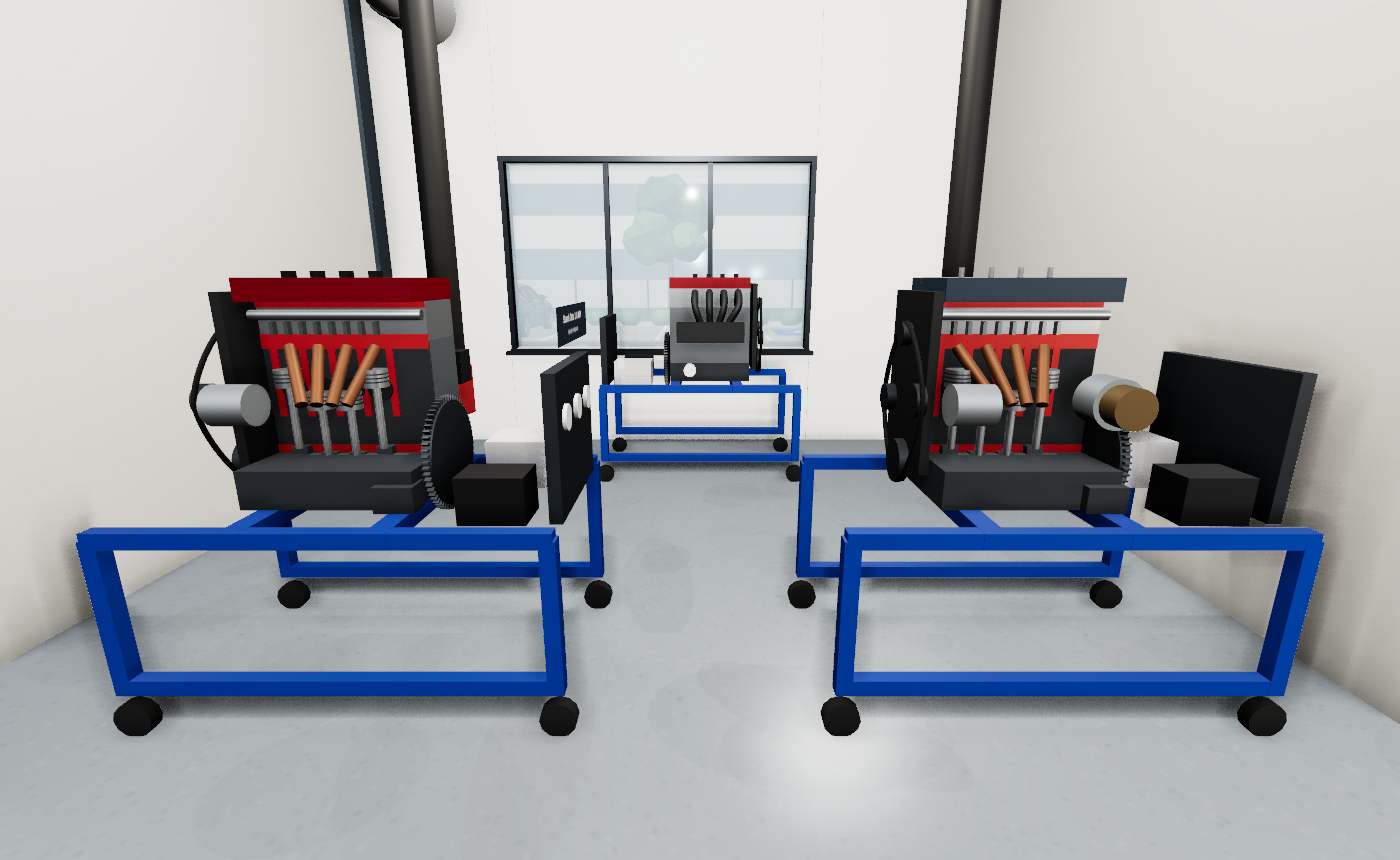
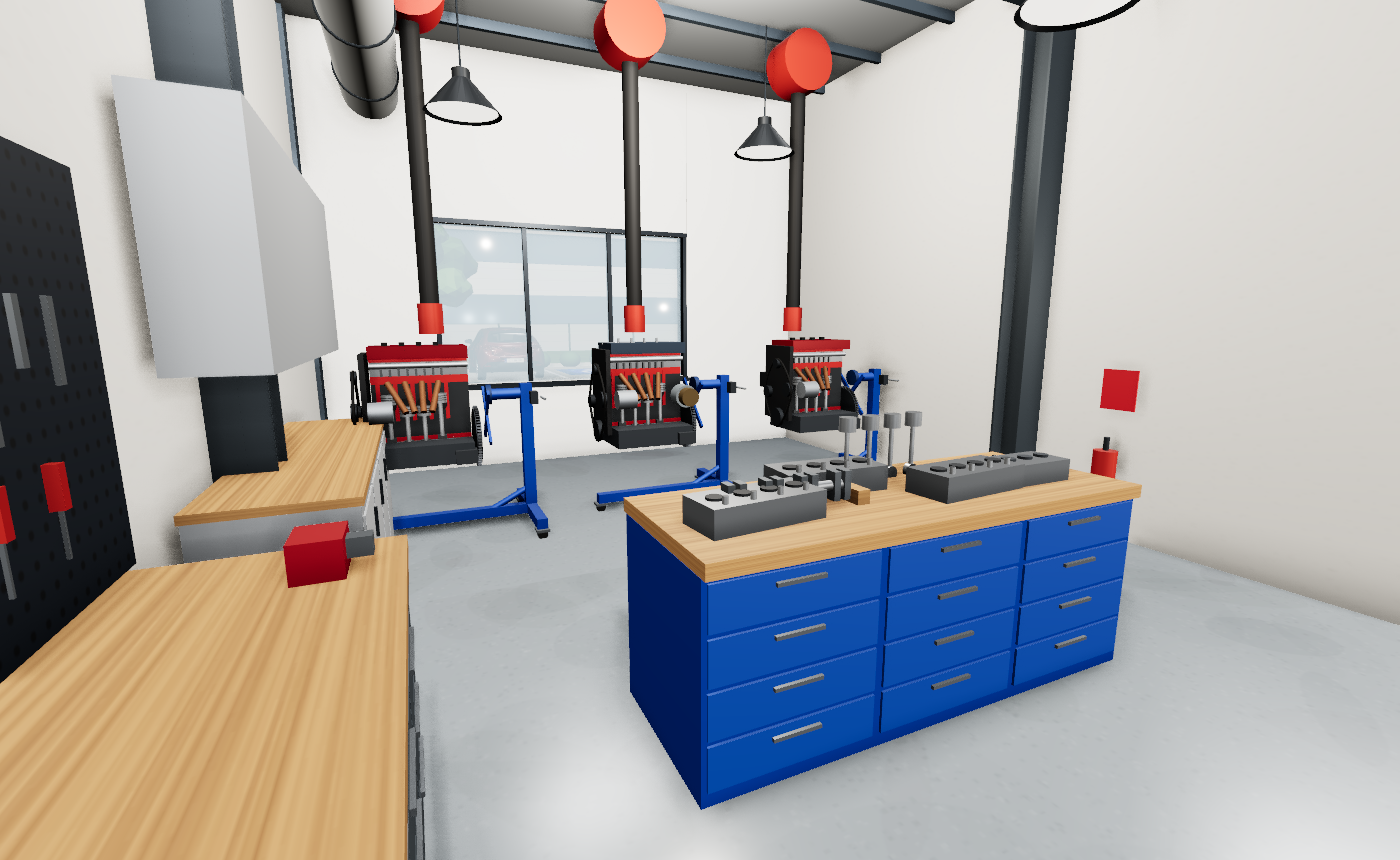
Laborator motoare amenajat după imaginea concept PCMAI + CCMAI
- trei motoare secționate pe standuri rotative albastre (Otto 1.4 MPI, Diesel 1.5 dCi, motor demonstrativ CCMAI)
- banc central cu chiulase și ax cu came, banc cu arbore cotit și pistoane, dulapuri gri de laborator
- lămpi industriale suspendate tip clopot, stâlpi metalici, evacuare gaze deasupra fiecărui motor

Claude-Session: https://claude.ai/code/session_01TZFbCrNL5Qe3p3aSQB4Bo5

diff --git a/js/equipment.js b/js/equipment.js
@@ -590,6 +590,25 @@ function engineModel(kind = 'MPI', cyl = 4) {
   return g;
 }
 // banc cu piese de motor (ca în imaginea concept PCMAI + CCMAI): arbore cotit, pistoane cu biele, chiulasă, ax cu came
+// stand rotativ de motor (ca în imaginea concept): bază pe roți, coloană, cap rotativ cu placă în cruce, motorul în consolă la ~1 m
+function engineRotStand(kind = 'MPI', cut = true) {
+  const g = new THREE.Group(); const SF = C(0x1f4fa8, { metalness: 0.35, roughness: 0.4 });
+  B(g, 0.08, 0.08, 1.0, SF, 0.55, 0.08, 0); B(g, 1.25, 0.08, 0.08, SF, -0.05, 0.08, 0);                 // bază în T
+  for (const [x, z] of [[0.55, -0.48], [0.55, 0.48], [-0.65, 0]]) { B(g, 0.1, 0.02, 0.1, MAT.steel, x, 0.06, z); Cy(g, 0.04, 0.035, MAT.rubber, x, 0.035, z, 'z', 14); }
+  B(g, 0.09, 1.0, 0.09, SF, 0.55, 0.16, 0); tube(g, [0.55, 0.3, 0], [0.2, 0.12, 0], 0.025, SF);          // coloană + contrafișă
+  Cy(g, 0.045, 0.32, SF, 0.42, 1.08, 0, 'x', 16); Cy(g, 0.08, 0.04, C(0x0e2f5a), 0.26, 1.08, 0, 'x', 20);   // cap rotativ
+  for (let i = 0; i < 4; i++) { const a = i / 4 * Math.PI * 2 + 0.78; const arm = B(g, 0.02, 0.32, 0.04, SF, 0.24, 1.08 - 0.16, 0); arm.position.set(0.24, 1.08 + Math.sin(a) * 0.12 - 0.16, Math.cos(a) * 0.12); arm.rotation.x = a; }
+  B(g, 0.06, 0.1, 0.1, MAT.dark, 0.6, 1.0, 0.07);                                                        // reductor cu manivelă
+  Cy(g, 0.01, 0.18, MAT.steel, 0.66, 1.05, 0.15, 'z', 8);
+  const em = engineModel(kind); em.scale.setScalar(1.3); em.position.set(-0.22, 0.6, 0); g.add(em);
+  return g;
+}
+function cylHeadsBench(len = 2.2) {   // banc cu chiulase, ax cu came și scule (ca în imaginea concept)
+  const g = enginePartsBench(len);
+  for (const [x, z, r] of [[-0.75, 0.1, 0.1], [-0.25, -0.15, -0.05], [0.3, 0.12, 0.08]]) { const h = new THREE.Group(); h.position.set(x, 0.92, z); h.rotation.y = r; g.add(h); B(h, 0.5, 0.11, 0.22, ALU2, 0, 0, 0); for (let i = 0; i < 4; i++) { Cy(h, 0.034, 0.02, C(0x2a2d30), -0.18 + i * 0.12, 0.1, 0.0, 'y', 20); Cy(h, 0.012, 0.03, GEARM, -0.18 + i * 0.12, 0.11, 0.07, 'y', 10); } }
+  return g;
+}
+function greyCabinets(len = 3.0) { const g = new THREE.Group(); const gc = C(0xb9bec3, { metalness: 0.3, roughness: 0.45 }); B(g, len, 0.9, 0.6, gc, 0, 0, 0); B(g, len, 0.04, 0.62, MAT.wood, 0, 0.9, 0); for (let i = 0; i < Math.floor(len / 0.6); i++) { B(g, 0.56, 0.8, 0.01, C(0xc9cdd1, { metalness: 0.3 }), -len / 2 + 0.3 + i * 0.6, 0.05, 0.305); B(g, 0.02, 0.15, 0.02, MAT.dark, -len / 2 + 0.52 + i * 0.6, 0.6, 0.315); } B(g, len, 1.0, 0.35, gc, 0, 1.45, -0.12); return g; }
 function enginePartsBench(len = 2.2) {
   const g = new THREE.Group(); const blue = C(0x1f4fa8, { metalness: 0.35, roughness: 0.45 });
   B(g, len, 0.06, 0.8, MAT.wood, 0, 0.86, 0); B(g, len, 0.82, 0.74, blue, 0, 0.04, 0);
@@ -797,21 +816,24 @@ export function buildEquipment(scene) {
   for (const [x, y] of [[10.25, 6.0], [13.55, 9.8]]) put(extractionReel(2.3, MAT.dark), x, y, 0, 0, info('Furtun de evacuare a gazelor (post de lucru)', D.PRA + ' · ' + D.DA, ['Lucru cu motorul pornit la posturile service'], 'Imagini concept – service didactic'), false, 4.2);
   put(extinguisher(), 13.85, 1.0, -90, 0, info('Stingător P6', 'Securitate la incendiu', [], 'P118/2015'));
 
-  // ===================== P03 LABORATOR PCMAI + CCMAI (x 14.15–19.8, y 0.2–16.14)
-  put(engineStand('MPI'), 15.9, 16.0, 0, 0, info('Stand motor Otto 1.4 MPI (K7J, injecție multipunct)', D.PCMAI + ' · ' + D.DA + ' · ' + D.SAA, ['PCMAI – caracteristici, raport de compresie', 'Diagnosticare L1–L4 (AVL, senzori, actuatori, etanșeitate)', 'SAA L1–L2 (consum, injecție), L4 ungere, L5 răcire, L7 demaror'], 'Caiet de sarcini Laborator Motoare Termice; îndrumare SAA/Diagnosticare 2026-2027'));
-  put(engineStand('dCi'), 18.5, 16.0, 0, 0, info('Stand motor Diesel 1.5 dCi (common rail, turbo)', D.CCMAI + ' · ' + D.DA + ' · ' + D.SAA, ['Diagnosticare L5 – sistem de alimentare MAC / EGR', 'SAA L3 injecție diesel, L6 turbosuflantă cu geometrie variabilă', 'CCMAI – construcția mecanismului motor'], 'Caiet de sarcini Laborator Motoare Termice; îndrumar SAA 2026-2027'));
+  // ===================== P03 LABORATOR MOTOARE (x 14.15–19.85, y 0.2–19.8) – amenajare după imaginea concept PCMAI + CCMAI
+  put(engineRotStand('MPI'), 15.3, 17.5, 0, 0, info('Stand motor Otto 1.4 MPI (K7J, injecție multipunct)', D.PCMAI + ' · ' + D.DA + ' · ' + D.SAA, ['PCMAI – caracteristici, raport de compresie', 'Diagnosticare L1–L4 (AVL, senzori, actuatori, etanșeitate)', 'SAA L1–L2 (consum, injecție), L4 ungere, L5 răcire, L7 demaror'], 'Caiet de sarcini Laborator Motoare Termice; îndrumare SAA/Diagnosticare 2026-2027'));
+  put(engineRotStand('dCi'), 17.1, 17.5, 0, 0, info('Stand motor Diesel 1.5 dCi (common rail, turbo)', D.CCMAI + ' · ' + D.DA + ' · ' + D.SAA, ['Diagnosticare L5 – sistem de alimentare MAC / EGR', 'SAA L3 injecție diesel, L6 turbosuflantă cu geometrie variabilă', 'CCMAI – construcția mecanismului motor'], 'Caiet de sarcini Laborator Motoare Termice; îndrumar SAA 2026-2027'));
+  put(engineRotStand('MPI'), 18.9, 17.5, 0, 0, info('Motor secționat demonstrativ (CCMAI)', D.CCMAI + ' · ' + D.BAZ, ['Construcția mecanismului motor: bloc, chiulasă, mecanism bielă-manivelă, distribuție', 'Identificarea pieselor și a materialelor'], 'Imagine concept „PCMAI + CCMAI”'));
+  put(cylHeadsBench(2.2), 16.9, 14.4, 0, 0, info('Banc cu chiulase și ax cu came', D.CCMAI, ['Chiulase: camere de ardere, supape, ghiduri', 'Măsurători la axul cu came'], 'Imagine concept „PCMAI + CCMAI”'));
+  put(greyCabinets(2.4), 14.5, 16.4, 90, 0, info('Dulapuri de laborator (scule, aparate de măsură)', D.CCMAI + ' · ' + D.PCMAI, ['Micrometre, comparatoare, șublere, chei dinamometrice'], 'Imagine concept'));
   put(smartCutaway(), 16.6, 2.6, 0, 0, info('Machetă secționată Smart ForTwo', D.BAZ + ' · ' + D.DA + ' · ' + D.CCA, ['Bazele ingineriei – identificarea subsistemelor', 'Diagnosticare L1, L6 – sisteme activate din telecomandă', 'CCA – transmisie, direcție, frâne'], 'Caiet de sarcini Laborator Motoare Termice (Fig. 1); îndrumar Diagnosticare'));
-  put(avlStation(), 17.0, 12.2, 180, 0, info('Stația AVL DiTEST (DiScope 200, analizor gaze, opacimetru)', D.DA + ' · ' + D.PCMAI, ['Diagnosticare L1 – motoare termice cu standul AVL', 'L1–L5: semnale, compresie relativă, emisii', 'Achiziția simultană a min. 10 parametri'], 'Caiet de sarcini Laborator Motoare Termice; Ghid AVL'));
+  put(avlStation(), 14.75, 11.7, 90, 0, info('Stația AVL DiTEST (DiScope 200, analizor gaze, opacimetru)', D.DA + ' · ' + D.PCMAI, ['Diagnosticare L1 – motoare termice cu standul AVL', 'L1–L5: semnale, compresie relativă, emisii', 'Achiziția simultană a min. 10 parametri'], 'Caiet de sarcini Laborator Motoare Termice; Ghid AVL'));
   put(studentDesk(1.8), 16.1, 6.4, 0, 0, info('Loc de lucru studenți (10 locuri)', D.PCMAI + ' · ' + D.CCMAI, ['Măsurători, referate, proiecte PCMAI / CCMAI'], 'Caiet de sarcini: „locuri de lucru pentru 10 studenți”; DXF A01'));
   put(studentDesk(1.8), 18.7, 6.4, 0, 0, null);
   put(studentDesk(1.8), 16.1, 8.4, 0, 0, null); put(studentDesk(1.8), 18.7, 8.4, 0, 0, null);
   put(enginePartsBench(2.2), 18.9, 10.9, -90, 0, info('Banc cu piese de motor: arbore cotit, pistoane cu biele, chiulasă, ax cu came', D.CCMAI + ' · ' + D.PCMAI, ['CCMAI – identificarea și măsurarea pieselor mecanismului bielă-manivelă', 'Proiect – dimensiuni principale (alezaj, cursă, bielă)'], 'Imagine concept „PCMAI + CCMAI”; caiet de sarcini Laborator Motoare (Fig. 2)'));
   put(poster('engine', 1.2), 14.17, 4.3, 90, 0, null, false);
   put(workbench(1.7), 14.6, 13.8, 90, 0, info('Masă de lucru cu scule (demontare / asamblare)', D.CCMAI + ' · ' + D.SAA, ['CCMAI – piston, bielă, segmenți (identificare, măsurare)', 'SAA – demontare demaror, pompă de apă'], 'Caiet de sarcini Laborator Motoare Termice (Fig. 2)'));
-  for (const x of [15.9, 18.5]) put(extractionReel(2.2), x, 16.8, 0, 0, info('Sistem de evacuare a gazelor de eșapament', 'Siguranță laborator motoare', ['Obligatoriu la funcționarea standurilor de motor'], 'Caiet de sarcini: „sistem profesional de evacuare a gazelor”'), false, 3.4);
+  for (const x of [15.2, 17.0, 18.8]) put(extractionReel(2.4), x, 18.1, 0, 0, info('Sistem de evacuare a gazelor de eșapament', 'Siguranță laborator motoare', ['Obligatoriu la funcționarea standurilor de motor'], 'Caiet de sarcini: „sistem profesional de evacuare a gazelor”'), false, 4.2);
   put(whiteboard(2.4), 19.8, 8.0, -90, 0, null, false);
   put(projectorScreen(2.0), 14.25, 9.9, 90, 0, null, false);
-  put(extinguisher(), 14.4, 18.8, 90, 0, info('Stingător CO2 lângă standuri', 'Securitate', ['Obligatoriu lângă standurile de motor (SAA, MF)'], 'Îndrumar SAA 2026-2027 – norme'));
+  put(extinguisher(), 19.7, 15.2, -90, 0, info('Stingător CO2 lângă standuri', 'Securitate', ['Obligatoriu lângă standurile de motor (SAA, MF)'], 'Îndrumar SAA 2026-2027 – norme'));
 
   // ===================== P04 HOL DE INTRARE + ANEXE (fâșia de est, x 20.0–24.8)
   put(noticeBoard(), 24.75, 3.4, -90, 0, null, false);

diff --git a/js/building.js b/js/building.js
@@ -183,6 +183,15 @@ export function buildBuilding(scene) {
     const d = y1 - 0.2; const deck = new THREE.Mesh(new THREE.PlaneGeometry(x1 - x0, d), m.deck); deck.rotation.x = Math.PI / 2; deck.position.set((x0 + x1) / 2, 4.49, -(0.2 + y1) / 2); add(deck, false);
     for (let y = 0.2 + 0.9; y < y1; y += 1.0) boxXY(x0, y, x1, y + 0.06, 4.40, 4.49, m.steel, false);
     for (let y = 2.5; y < y1 - 1; y += 4.5) { boxXY(x0, y - 0.1, x1, y + 0.1, 4.05, 4.49, m.steel); }
+    if (x0 > 14) {   // laborator motoare: lămpi industriale suspendate tip clopot (ca în imaginea concept)
+      const dome = new THREE.MeshStandardMaterial({ color: 0x2b2f33, metalness: 0.6, roughness: 0.4, side: THREE.DoubleSide });
+      for (let x = x0 + 1.4; x < x1 - 0.5; x += 2.8) for (let y = 2.0; y < y1 - 1; y += 3.2) {
+        const rod = new THREE.Mesh(new THREE.CylinderGeometry(0.008, 0.008, 0.9), m.alu); rod.position.set(x, 4.0, -y); root.add(rod);
+        const sh = new THREE.Mesh(new THREE.CylinderGeometry(0.07, 0.3, 0.26, 28, 1, true), dome); sh.position.set(x, 3.42, -y); sh.castShadow = false; root.add(sh);
+        const top = new THREE.Mesh(new THREE.CylinderGeometry(0.07, 0.07, 0.08, 16), dome); top.position.set(x, 3.58, -y); root.add(top);
+        const lens = new THREE.Mesh(new THREE.CircleGeometry(0.27, 28), m.led); lens.rotation.x = Math.PI / 2; lens.position.set(x, 3.31, -y); root.add(lens);
+      }
+    } else
     for (let x = x0 + 1.6; x < x1 - 0.8; x += 2.6) for (let y = 1.2; y < y1 - 1.2; y += 2.2) {
       boxXY(x - 0.08, y, x + 0.08, y + 1.6, 3.95, 4.02, m.alu, false);
       const lens = new THREE.Mesh(new THREE.PlaneGeometry(0.12, 1.55), m.led); lens.rotation.x = Math.PI / 2; lens.position.set(x, 3.945, -(y + 0.8)); root.add(lens);
@@ -193,8 +202,8 @@ export function buildBuilding(scene) {
     for (let y = 1.0; y < y1 - 0.5; y += 1.2) { const r = new THREE.Mesh(new THREE.TorusGeometry(0.255, 0.012, 6, 24), m.alu); r.position.set(dx, 3.85, -y); root.add(r); }
   }
   // stâlpi metalici HEA pe pereții halelor (ca în imaginile concept), gri deschis
-  const colM = new THREE.MeshStandardMaterial({ color: 0x9aa3aa, roughness: 0.45, metalness: 0.5 });
-  for (let y = 2.5; y < 19.5; y += 4.5) for (const [x, sx] of [[0.2, 1], [6.32, -1], [6.47, 1], [14.0, -1]]) {
+  const colM = new THREE.MeshStandardMaterial({ color: 0x4a5258, roughness: 0.45, metalness: 0.5 });
+  for (let y = 2.5; y < 19.5; y += 4.5) for (const [x, sx] of [[0.2, 1], [6.32, -1], [6.47, 1], [14.0, -1], [14.15, 1], [19.85, -1]]) {
     const xi = sx > 0 ? x : x - 0.26;
     boxXY(xi, y - 0.13, xi + 0.26, y - 0.11, 0, 4.4, colM); boxXY(xi, y + 0.11, xi + 0.26, y + 0.13, 0, 4.4, colM); boxXY(sx > 0 ? xi : xi + 0.24, y - 0.12, sx > 0 ? xi + 0.02 : xi + 0.26, y + 0.12, 0, 4.4, colM);
     boxXY(xi + 0.12, y - 0.12, xi + 0.14, y + 0.12, 0, 4.4, colM);
